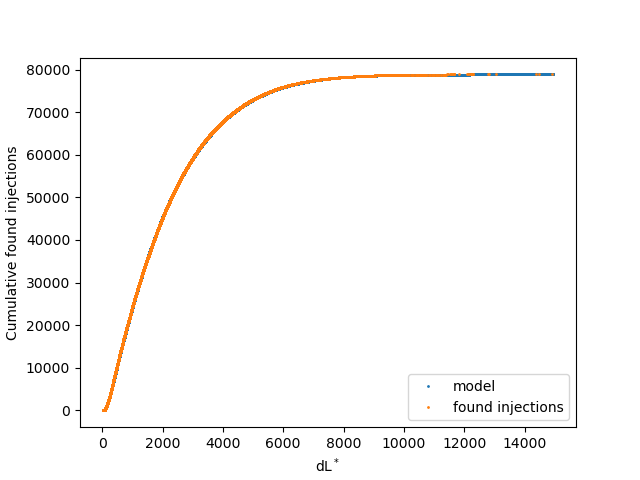
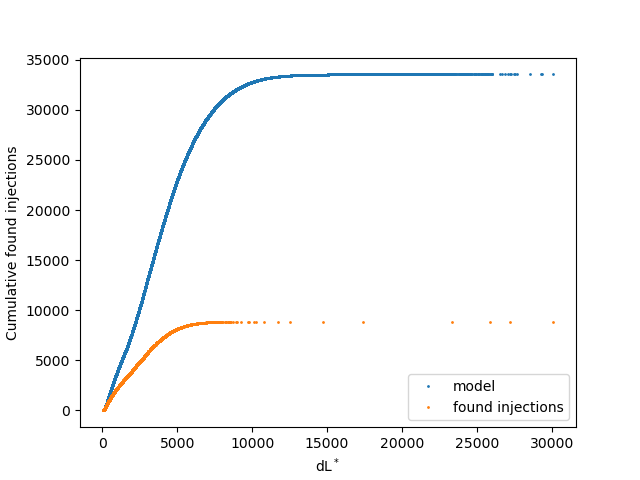
rerun fdmid and fspin without 1 in exp

diff --git a/fitting_functions.py b/fitting_functions.py
@@ -249,7 +249,7 @@ def Dmid_mchirp_fdmid(m1_det, m2_det, params):
     
     Mc = (m1_det * m2_det)**(3/5) / M**(1/5)
     
-    f_dmid = (1+ a_20 * M**2  + a_01 * (1 - 4*eta) + a_21 * M**2 * (1 - 4*eta) + a_10 * M + a_11 * M * (1 - 4*eta))
+    f_dmid = (a_20 * M**2  + a_01 * (1 - 4*eta) + a_21 * M**2 * (1 - 4*eta) + a_10 * M + a_11 * M * (1 - 4*eta))
     
     return  Mc**(5/6) * D0 * np.exp(f_dmid)
 
@@ -278,7 +278,7 @@ def Dmid_mchirp_fdmid_fspin(m1_det, m2_det, chi_eff, params):
     
     Mc = (m1_det * m2_det)**(3/5) / M**(1/5)
     
-    f_dmid = (1+ a_20 * M**2  + a_01 * (1 - 4*eta) + a_21 * M**2 * (1 - 4*eta) + a_10 * M + a_11 * M * (1 - 4*eta))
+    f_dmid = (a_20 * M**2  + a_01 * (1 - 4*eta) + a_21 * M**2 * (1 - 4*eta) + a_10 * M + a_11 * M * (1 - 4*eta))
     f_as = (c_1 + c_11 * M) * chi_eff
     
     return  Mc**(5/6) * D0 * np.exp(f_dmid) * np.exp(f_as)
